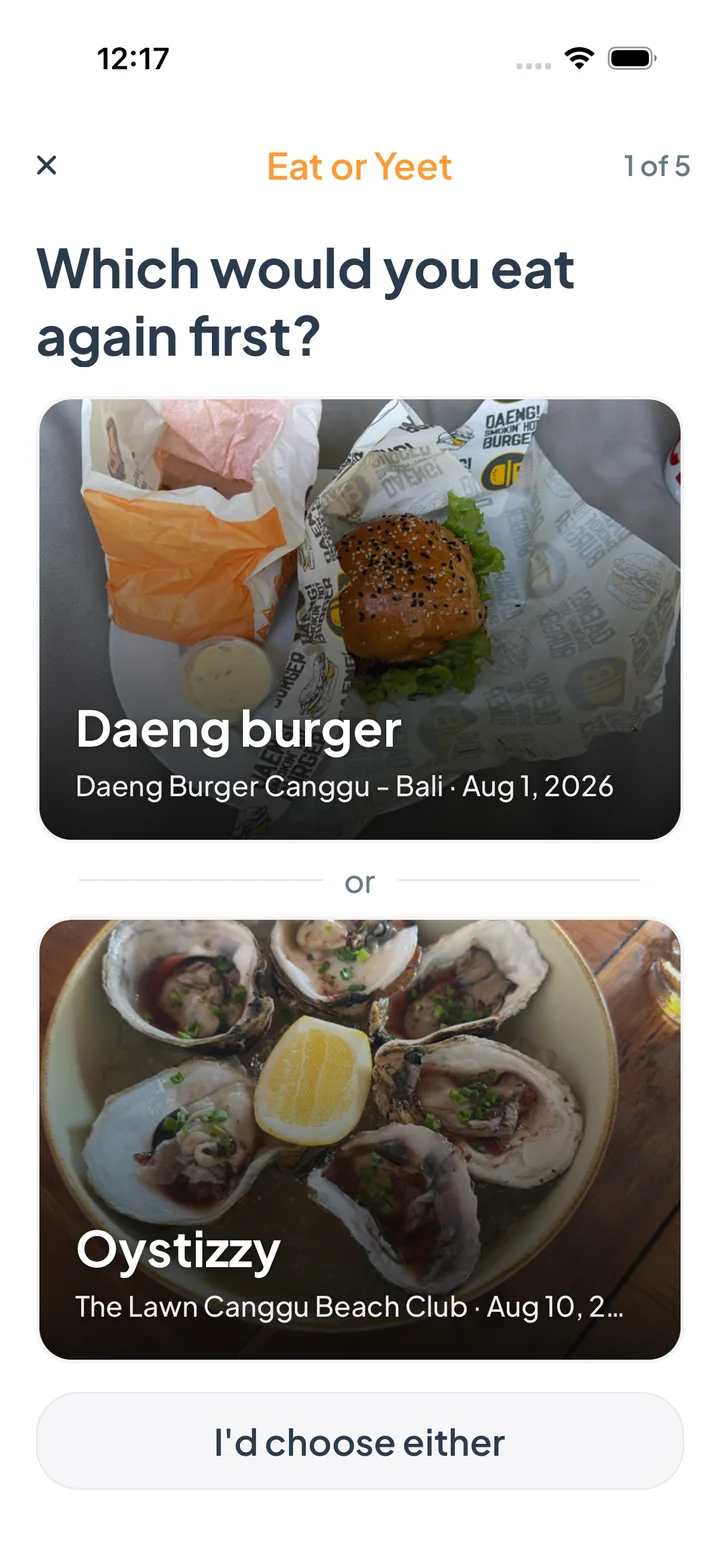
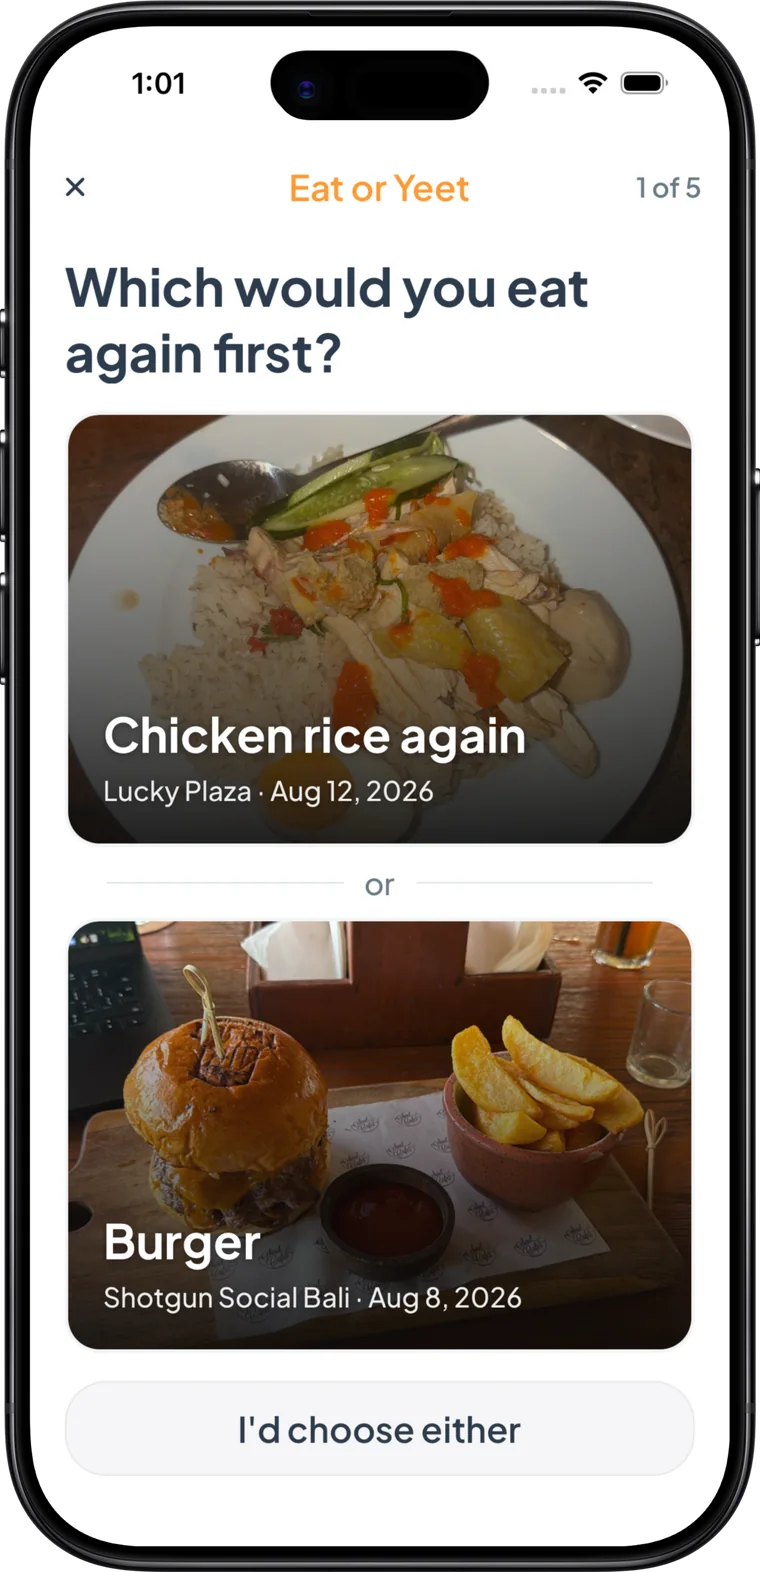
feat(home): App Store badge as the ask; the five real screens in place
The saffron 'Get Makan' pills in the hero and the proof scene become
Apple's badge (tracked as before). The app section shows Discover, Eat or
Yeet and the diary from the founder's own signed-in screenshots, already
in a device frame; the restaurant section shows Discover above the slip,
because the nudge is the sell. Credits rows added for all five screens.

diff --git a/components/home/SeeTheApp.tsx b/components/home/SeeTheApp.tsx
@@ -2,12 +2,14 @@ import Image from "next/image"
 import { getTranslations } from "next-intl/server"
 import Reveal from "@/components/motion/Reveal"
 
-// The two screens a diner actually uses: the game that teaches Makan taste,
-// and the diary the answer is drawn from. Real signed-in screenshots. (The
-// composer is not shown: it changed after these were taken.)
+// The three screens a diner actually uses, as real signed-in screenshots
+// already sitting in a device frame: Discover (the nudge back to a saved
+// place), the game that teaches Makan taste, and the diary the answer is
+// drawn from.
 const SHOTS = [
-  { src: "/app-screens/story/eat-or-yeet.webp", titleKey: "shot1Title", bodyKey: "shot1Body", altKey: "shot1Alt" },
-  { src: "/app-screens/story/diary.webp", titleKey: "shot2Title", bodyKey: "shot2Body", altKey: "shot2Alt" },
+  { src: "/app-screens/story/discover.webp", titleKey: "shot1Title", bodyKey: "shot1Body", altKey: "shot1Alt" },
+  { src: "/app-screens/story/eat-or-yeet.webp", titleKey: "shot2Title", bodyKey: "shot2Body", altKey: "shot2Alt" },
+  { src: "/app-screens/story/diary.webp", titleKey: "shot3Title", bodyKey: "shot3Body", altKey: "shot3Alt" },
 ] as const
 
 export default async function SeeTheApp() {
@@ -25,15 +27,17 @@ export default async function SeeTheApp() {
         >
           {t("title")}
         </h2>
-        <div className="mx-auto mt-14 grid max-w-3xl grid-cols-1 gap-14 md:grid-cols-2 md:gap-12">
+        <div className="mx-auto mt-14 grid max-w-5xl grid-cols-1 gap-14 md:grid-cols-3 md:gap-8">
           {SHOTS.map((shot, i) => (
-            <figure key={shot.titleKey} data-beat style={{ "--beat": 2 + i } as React.CSSProperties}>
-              {/* Phone frame: ink bezel, rounded, the screen inside. */}
-              <div className="mx-auto w-full max-w-[17rem] rounded-[2.4rem] border-[6px] border-brand-ink bg-brand-ink shadow-[0_1px_2px_rgba(43,21,3,0.08),0_16px_32px_-18px_rgba(43,21,3,0.5)]">
-                <div className="overflow-hidden rounded-[1.8rem]">
-                  <Image src={shot.src} alt={t(shot.altKey)} width={720} height={1565} sizes="(min-width: 768px) 240px, 60vw" className="block h-auto w-full" />
-                </div>
-              </div>
+            <figure key={shot.src} data-beat style={{ "--beat": 2 + i } as React.CSSProperties}>
+              <Image
+                src={shot.src}
+                alt={t(shot.altKey)}
+                width={760}
+                height={1572}
+                sizes="(min-width: 768px) 280px, 70vw"
+                className="mx-auto block h-auto w-full max-w-[17.5rem] drop-shadow-[0_18px_28px_rgba(43,21,3,0.22)]"
+              />
               <figcaption className="mx-auto mt-6 max-w-[22rem]">
                 <p className="text-[1.15rem] font-bold tracking-[-0.01em] text-brand-ink">{t(shot.titleKey)}</p>
                 <p className="mt-1.5 text-[0.95rem] leading-[1.5] text-brand-ink">{t(shot.bodyKey)}</p>

diff --git a/components/home/ForRestaurants.tsx b/components/home/ForRestaurants.tsx
@@ -1,4 +1,5 @@
 import { getLocale, getTranslations } from "next-intl/server"
+import Image from "next/image"
 import Reveal from "@/components/motion/Reveal"
 import { localizePath } from "@/i18n/paths"
 
@@ -76,10 +77,23 @@ export default async function ForRestaurants() {
           </a>
         </div>
 
+        <div className="flex flex-col items-center gap-10">
+          {/* The nudge, as the diner sees it: one good option nearby, from
+              their Cravings, with the distance (Discover, RM18642). */}
+          <Image
+            data-beat
+            style={{ "--beat": 2 } as React.CSSProperties}
+            src="/app-screens/story/discover.webp"
+            alt={t("discoverAlt")}
+            width={760}
+            height={1572}
+            sizes="(min-width: 768px) 280px, 70vw"
+            className="block h-auto w-full max-w-[16.5rem] drop-shadow-[0_18px_28px_rgba(43,21,3,0.22)]"
+          />
         {/* The same slip the diner saw, from the restaurant's side. */}
         <div
           data-beat
-          style={{ "--beat": 2 } as React.CSSProperties}
+          style={{ "--beat": 3 } as React.CSSProperties}
           className="mx-auto w-full max-w-[22rem] rotate-1 rounded-[3px] border border-brand-muted/25 bg-brand-cream p-5 shadow-[0_1px_2px_rgba(43,21,3,0.08),0_10px_24px_-16px_rgba(43,21,3,0.35)] md:mt-10"
         >
           <p className="text-[0.74rem] font-extrabold uppercase tracking-[0.15em] text-brand-ink md:text-[0.68rem]">{slip("slipFrom")}</p>
@@ -96,6 +110,7 @@ export default async function ForRestaurants() {
               </div>
             ))}
           </dl>
+        </div>
         </div>
       </Reveal>
     </section>

diff --git a/components/home/EatOrYeetScene.tsx b/components/home/EatOrYeetScene.tsx
@@ -1,3 +1,4 @@
+import Image from "next/image"
 import { getTranslations } from "next-intl/server"
 import {
   EatOrYeetDuel,
@@ -75,6 +76,7 @@ const FLIGHT = [0, 1, 2].map((k) => ({
  */
 export default async function EatOrYeetScene() {
   const t = await getTranslations("Decision.Hero")
+  const landing = await getTranslations("Decision.Landing")
 
   return (
     <ScrollScene id="proof" thresholds={STAGES} style={SCENE_VARS} className="relative bg-brand-card md:staged:h-[var(--scene-h)]">
@@ -159,9 +161,9 @@ export default async function EatOrYeetScene() {
               <div data-scene="13" className="mt-6 flex flex-wrap items-center gap-x-5 gap-y-3">
                 <StoreLink
                   location="proof"
-                  className="inline-flex min-h-14 items-center rounded-full bg-brand-orange px-8 text-base font-bold text-white shadow-[0_10px_24px_-10px_rgba(255,153,50,0.6)] transition-transform hover:-translate-y-0.5 focus-visible:outline-2 focus-visible:outline-offset-4 focus-visible:outline-brand-ink active:translate-y-0"
+                  className="inline-block rounded-[10px] transition-transform hover:-translate-y-0.5 focus-visible:outline-2 focus-visible:outline-offset-4 focus-visible:outline-brand-ink active:translate-y-0"
                 >
-                  {t("cta")}
+                  <Image src="/app-store-badge.svg" alt={landing("badgeAlt")} width={180} height={60} className="h-12 w-auto" />
                 </StoreLink>
                 <span className="text-[0.78rem] font-semibold uppercase tracking-[0.14em] text-brand-orange md:text-[0.74rem]">
                   {t("platform")}

diff --git a/components/home/Hero.tsx b/components/home/Hero.tsx
@@ -86,9 +86,9 @@ export default async function Hero({
           >
             <StoreLink
               location="hero"
-              className="inline-flex min-h-14 items-center rounded-full bg-brand-orange px-8 text-base font-bold text-white shadow-[0_10px_24px_-10px_rgba(255,153,50,0.6)] transition-transform hover:-translate-y-0.5 focus-visible:outline-2 focus-visible:outline-offset-4 focus-visible:outline-brand-ink active:translate-y-0"
+              className="inline-block rounded-[10px] transition-transform hover:-translate-y-0.5 focus-visible:outline-2 focus-visible:outline-offset-4 focus-visible:outline-brand-ink active:translate-y-0"
             >
-              {t("cta")}
+              <Image src="/app-store-badge.svg" alt={t("badgeAlt")} width={180} height={60} className="h-14 w-auto" />
             </StoreLink>
             <span className="text-[0.78rem] font-semibold uppercase tracking-[0.14em] text-brand-orange md:text-[0.74rem]">
               {t("platform")}

diff --git a/docs/decision-first/id-review.md b/docs/decision-first/id-review.md
@@ -98,11 +98,15 @@ Mark a row `fix` in the last column and write the better line under it. Rows wit
 | `Restaurants.stat2Body` | of guests say being remembered matters more than points. | tamu bilang diingat lebih penting daripada poin. | |
 | `Restaurants.stat2Src` | Toast & Resy, The Regulars Report, 2026 | Toast & Resy, The Regulars Report, 2026 | |
 | `Restaurants.cta` | Read the restaurant page | Baca halaman restoran | |
+| `Restaurants.discoverAlt` | The Discover screen: one good option nearby, from the diner's Cravings, with the distance | Layar Discover: satu pilihan bagus di dekat tamu, dari Cravings mereka, lengkap dengan jaraknya | |
 | `App.eyebrow` | This is Makan | Ini Makan | |
-| `App.title` | Two screens you'll use most. | Dua layar yang paling sering kamu pakai. | |
-| `App.shot1Title` | Eat or Yeet | Eat or Yeet | |
-| `App.shot1Body` | Two meals you saved. Tap the one you'd eat again first. Ten seconds, when you're bored. | Dua makanan yang kamu simpan. Ketuk yang mau kamu makan lagi duluan. Sepuluh detik, saat kamu bosan. | |
-| `App.shot1Alt` | The Eat or Yeet screen in Makan: two saved meals side by side | Layar Eat or Yeet di Makan: dua makanan tersimpan berdampingan | |
-| `App.shot2Title` | Your meals | Makananmu | |
-| `App.shot2Body` | Every photo you've taken, by day. The answer on the menu comes from here. | Semua foto yang kamu ambil, per hari. Jawaban di menu datang dari sini. | |
-| `App.shot2Alt` | The diary screen in Makan: a calendar of saved meals | Layar jurnal di Makan: kalender makanan tersimpan | |
+| `App.title` | Three screens you'll use most. | Tiga layar yang paling sering kamu pakai. | |
+| `App.shot1Title` | Discover | Discover | |
+| `App.shot1Body` | Near a place you've saved? Makan shows one good option from your Cravings, with the distance. | Dekat tempat yang pernah kamu simpan? Makan menunjukkan satu pilihan bagus dari Cravings-mu, lengkap dengan jaraknya. | |
+| `App.shot1Alt` | The Discover screen in Makan: one good option nearby, from your Cravings, 1.2 km away | Layar Discover di Makan: satu pilihan bagus di dekatmu, dari Cravings, 1,2 km | |
+| `App.shot2Title` | Eat or Yeet | Eat or Yeet | |
+| `App.shot2Body` | Two meals you saved. Tap the one you'd eat again first. Ten seconds, when you're bored. | Dua makanan yang kamu simpan. Ketuk yang mau kamu makan lagi duluan. Sepuluh detik, saat kamu bosan. | |
+| `App.shot2Alt` | The Eat or Yeet screen in Makan: two saved meals, which would you eat again first | Layar Eat or Yeet di Makan: dua makanan tersimpan, mana yang mau dimakan lagi duluan | |
+| `App.shot3Title` | Your meals | Makananmu | |
+| `App.shot3Body` | Every photo you've taken, by day, with the place. The answer on the menu comes from here. | Semua foto yang kamu ambil, per hari, dengan tempatnya. Jawaban di menu datang dari sini. | |
+| `App.shot3Alt` | The diary screen in Makan: a calendar of saved meals with the restaurant named | Layar jurnal di Makan: kalender makanan tersimpan dengan nama restorannya | |

diff --git a/docs/decision-first/photo-credits.md b/docs/decision-first/photo-credits.md
@@ -13,7 +13,11 @@ Every meal photo in `public/meals/story/` was public on Makan when copied; the a
 | lucky-plaza-chicken-rice-1.jpg | Chicken rice, Lucky Plaza | uid 644Yh… | yes | 2026-08-10 | meals/1UwpCJ9znTJSH7LFKOoM |
 | lucky-plaza-chicken-rice-2.jpg | Chicken rice, Lucky Plaza | uid 644Yh… | yes | 2026-08-12 | meals/H20DLnOGp5Ew72sDdu6u |
 | lucky-plaza-chicken-rice-3.jpg | Chicken rice, Lucky Plaza | uid 644Yh… | yes | 2026-08-21 | meals/fySk8AxebZPdxNbEBLWK |
-| eat-or-yeet.webp | App screenshot (Eat or Yeet) | founder's own account, signed-in screenshot | yes | 2026-09-02 | Projects/MAKAN/02-eat-or-yeet-comparison-signed-in.png.png |
-| diary.webp | App screenshot (diary) | founder's own account, signed-in screenshot | yes | 2026-09-02 | Projects/MAKAN/01-diary-calendar-signed-in.png.png |
 
 Handle to print on the card: **pending Devon** (the username lookup is out of scope for the agent; Devon names the account or it stays "Saved at Lucky Plaza").
+
+| discover.webp | App screenshot (Discover) | founder's own account, signed-in screenshot in a device frame | yes | 2026-09-02 | Projects/MAKAN/NEW APP STORE SCREENSHOTS 17:8:26/disc.png |
+| feed.webp | App screenshot (Friends feed) | founder's own account, signed-in screenshot in a device frame | yes | 2026-09-02 | Projects/MAKAN/NEW APP STORE SCREENSHOTS 17:8:26/feed.png |
+| diary.webp | App screenshot (diary) | founder's own account, signed-in screenshot in a device frame | yes | 2026-09-02 | Projects/MAKAN/NEW APP STORE SCREENSHOTS 17:8:26/diary.png |
+| profile.webp | App screenshot (profile, Your taste) | founder's own account, signed-in screenshot in a device frame | yes | 2026-09-02 | Projects/MAKAN/NEW APP STORE SCREENSHOTS 17:8:26/ss2.png |
+| eat-or-yeet.webp | App screenshot (Eat or Yeet) | founder's own account, signed-in screenshot in a device frame | yes | 2026-09-02 | Projects/MAKAN/NEW APP STORE SCREENSHOTS 17:8:26/mockuuups-or35sdqpq3e8d9x1nwcugh.png |
